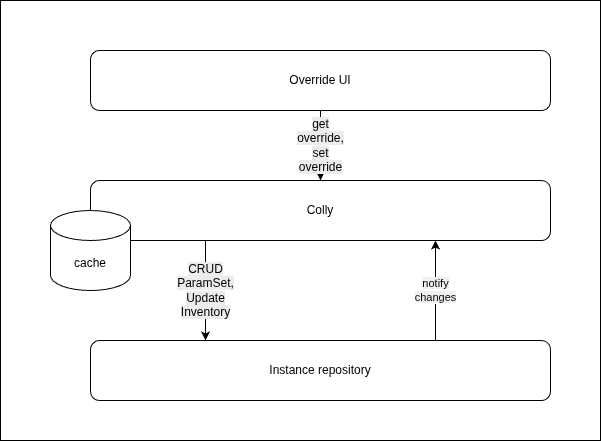
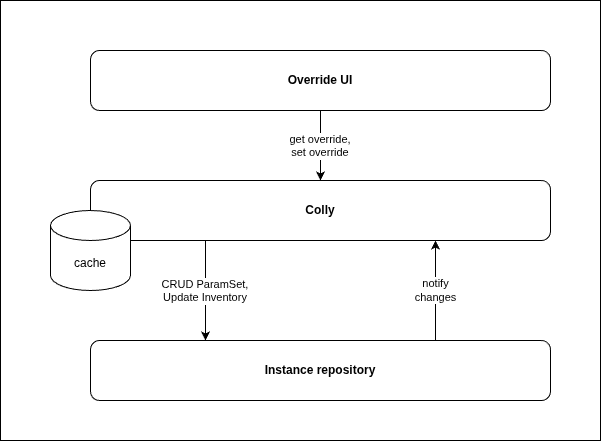
docs: update override ui

diff --git a/docs/analysis/override-ui.md b/docs/analysis/override-ui.md
@@ -4,12 +4,16 @@
   - [Problem Statement](#problem-statement)
   - [Scenarios](#scenarios)
   - [Proposed Approach](#proposed-approach)
-    - [Prototype](#prototype)
-    - [Варианты реализации UI оверрайда в энвгене](#варианты-реализации-ui-оверрайда-в-энвгене)
-      - [Option 1. Env Specific Parameters Override](#option-1-env-specific-parameters-override)
-      - [Option 2. Env Instance Override](#option-2-env-instance-override)
-      - [Option 3. Effective Set Override](#option-3-effective-set-override)
-    - [Реализация в Колли](#реализация-в-колли)
+    - [Option 1. Env Specific Parameters Override](#option-1-env-specific-parameters-override)
+      - [\[Option 1\] EnvGene](#option-1-envgene)
+      - [\[Option 1\] Colly](#option-1-colly)
+    - [Option 2. Env Instance Override](#option-2-env-instance-override)
+      - [\[Option 2\] EnvGene](#option-2-envgene)
+      - [\[Option 2\] Colly](#option-2-colly)
+    - [Option 3. Effective Set Override](#option-3-effective-set-override)
+      - [\[Option 3\] EnvGene](#option-3-envgene)
+      - [\[Option 3\] Colly](#option-3-colly)
+    - [Сравнение Опций](#сравнение-опций)
   - [Use Cases](#use-cases)
   - [Open Questions](#open-questions)
 
@@ -29,8 +33,6 @@
 
 ## Scenarios
 
-Сценарии ниже подразумевают что в качестве CM используется EnvGene в noCMDB режиме
-
 1. **Dev/QA Test**
 
    Разработчик/QA или группа разработчиков/QA получили развернутое в облаке окружение для тестирования изменений.
@@ -46,6 +48,201 @@
    Процесс включает многократный редеплой отдельных приложений, что требует изменения параметров этих приложений в CM.
 
    Полученные в результате отладки и тестирования изменения параметров требуют сохранения в шаблоне окружения для воспроизводимости в будущих окружениях и использования в других инстансах.
+
+## Proposed Approach
+
+Решение предоставляет UI для быстрого изменения параметров окружения без необходимости работы с Git напрямую. UI оверрайды сохраняются в инстансном репозитории и применяются с наивысшим приоритетом в цепочке параметров. Предложено три варианта реализации, различающиеся местом хранения оверрайдов и временем их применения. Все варианты обеспечивают возможность последующего переноса изменений в шаблон окружения для воспроизводимости.
+
+![override-ui-arch.png](/docs/images/override-ui-arch.png)
+
+![override-ui-prototype.html](/docs/analysis/override-ui-prototype.html)
+
+![override-ui-options.png](/docs/images/override-ui-options.png)
+
+### Option 1. Env Specific Parameters Override
+
+Оверрайды хранятся исключительно в отдельных ParamSet файлах в инстансном репозитории. ParamSet файлы ассоциируются с окружением через Inventory и применяются последними в цепочке параметров, обеспечивая наивысший приоритет. Применение изменений требует выполнения `env_build` и `generate_effective_set`.
+
+#### [Option 1] EnvGene
+
+1. При создание UI оверрайда значения сохраняются в инстансном репозитории в виде Env Specific ParamSets
+
+   1. парамсеты создается в `/environments/<cluster>/<env>/Inventory/parameters/` отдельно для каждого нс/контекста c именами:
+      1. для `deployment` контекста: `<deploy-postfix>-deploy-ui-override.yaml`
+      2. для `runtime` контекста: `<deploy-postfix>-runtime-ui-override.yaml`
+      3. для `pipeline` контекста: `pipeline-ui-override.yaml`
+
+   2. парамсет ассоциируется в инвентори энва:
+      1. парамсет добавляется в конец списка парамсетов в текущие точки ассоциации
+
+            ```yaml
+            envTemplate:
+               envSpecificParamsets:
+                  <deploy-postfix>:
+                     - ...
+                     - <deploy-postfix>-deploy-ui-override
+               envSpecificTechnicalParamsets:
+                  <deploy-postfix>:
+                     - ...
+                     - <deploy-postfix>-runtime-ui-override
+               envSpecificE2EParamsets:
+                  # For all NSs of the Env
+                  <deploy-postfix>:
+                     - ...
+                     - pipeline-ui-override
+            ```
+
+      2. Во время `env_build` происходит валидация на то что ui-override парамсеты в конце списка - если нет, падает
+      3. Во время `env_inventory_generation` (или в первой джобе?) происходит валидация, что создаются или изменяются ui-override парамсеты - если да, падает
+
+   3. парамсеты имеют следующую структуру:
+      1. для `deployment` и `runtime` контекста:
+
+            ```yaml
+            name: string
+            parameters: {}
+            applications:
+               - appName: string
+                 parameters: map
+            ```
+
+      2. для `pipeline` контекста: `pipeline-ui-override.yaml`
+
+            ```yaml
+            name: string
+            parameters: map
+            applications: []
+            ```
+
+   4. В BGD кейсе вместо `<deploy-postfix>` используется `<deploy-postfix>-peer|origin`. Для процессинга этой конструкции используется BG Domain объект.
+
+2. Для отображения сохраненного UI оверрайда используется парамсет
+
+3. UI оверрайд может содержать макросы ссылки на креды созданные в гите
+
+4. Возможность создавать креды не предоставляется. Работа с заинкрипченным репозиторием не поддерживается
+   1. **Assumption**: В тех репозиториях/сайтах где используется Override UI энкрипт репозитория не требуется
+
+#### [Option 1] Colly
+
+CRUD **только** над ui-override парамсетами (нужна валидация)
+Update **только** точек ассоциации, только ui-override парамсетов в инвентори (нужна валидация)
+
+Изменения нескольких файлов должны быть транзакционными
+
+```yaml
+## ParamSet
+# Mandatory
+# Уникальный идентификатор парамсета в рамках колли инстанса
+id: uuid
+# Для обработки параллельных изменениях через UI разными пользователями и одновременном изменении через UI и Git
+# Колли изменяет при создание изменение парамсета
+updatedAt: timestamp
+# Имя парамсета. Уникально в пределах инстансного репозитория + location
+name: string
+# Mandatory
+location:
+   # Область действия парамсета 
+   wideness: enum[ site, cluster, environment ]
+   # Optional
+   # требуется только для wideness: cluster, environment
+   clusterName: string
+   # Optional
+   # требуется только для wideness: environment
+   environmentName: string
+# Mandatory
+# Оверрайд параметры уровня объекта с которым ассоциирован - клауд или неймспейс
+parameters: map
+# Mandatory
+applications:
+  - # Mandatory
+    # Имя приложения
+    appName: string
+    # Mandatory
+    # Оверрайд параметры уровня приложения 
+    parameters: map 
+```
+
+```yaml
+## Environment
+...
+paramSets:
+  - name: string
+    associatedObjectType: enum[ cloud, namespace ]
+    associatedObjectName: string
+    context: enum[ deployment, runtime, pipeline ]
+```
+
+### Option 2. Env Instance Override
+
+Расширяет Option 1 дополнительным мержем оверрайдов напрямую в Application и Namespace объекты инстансного репозитория. Оверрайды хранятся в двух местах: ParamSet файлах (как в Option 1) и в Application/Namespace объектах. Применение изменений требует только `generate_effective_set`, что ускоряет процесс по сравнению с Option 1.
+
+#### [Option 2] EnvGene
+
+1. Все то же самое что и в **Option 1. Env Specific Parameters Override**
+2. При создание UI оверрайда значения мержатся в режиме Shallow Merge в Application энвайрмента:
+   1. для `deploy` в аттрибут `deployParameters` Application объекта расположенного в `environments/<cluster>/<env>/Namespaces/<ns>/Applications/<app>.yml`
+   2. для `runtime` в аттрибут `technicalConfigurationParameters` Application объекта расположенного в `environments/<cluster>/<env>/Namespaces/<ns>/Applications/<app>.yml`
+   3. для `pipeline` в аттрибут `e2eParameters` во все Namespace объекты энвайрмента, расположенные в `environments/<cluster>/<env>/namespace.yml`
+
+#### [Option 2] Colly
+
+TBD
+
+### Option 3. Effective Set Override
+
+**Архитектурное описание:** Расширяет Option 2 дополнительным мержем оверрайдов напрямую в файлы Effective Set. Оверрайды хранятся в трех местах: ParamSet файлах, Application/Namespace объектах и файлах Effective Set. Изменения могут быть применены мгновенно
+
+#### [Option 3] EnvGene
+
+1. Все то же самое что и в **Option 2. Env Instance Override**
+2. При создание UI оверрайда значения мержатся в режиме Shallow Merge в файлы ES:
+   1. для `deploy` в `effective-set/deployment/<ns>/<app>/values/deployment-parameters.yaml`
+   2. для `runtime` в `effective-set/runtime/<ns>/<app>/parameters.yaml`
+   3. для `pipeline` в `effective-set/pipeline/parameters.yaml`
+
+#### [Option 3] Colly
+
+TBD
+
+### Сравнение Опций
+
+| Критерий | Option 1. Env Specific Parameters Override | Option 2. Env Instance Override | Option 3. Effective Set Override |
+| :-------- | :------------------------------------------ | :------------------------------- | :-------------------------------- |
+| **Время применения изменений** | Дольше - требуется `env_build` + `generate_effective_set` | Среднее - требуется `generate_effective_set` | Мгновенно - изменения применяются сразу |
+| **Сложность реализации** | Ниже | Выше | Выше |
+| **Риск рассинхронизации** | Низкий - оверрайды в одном месте (ParamSet) | Средний - оверрайды в двух местах (ParamSet + Application/Namespace) | Высокий - оверрайды в трех местах (ParamSet + Application/Namespace + ES) |
+
+## Use Cases
+
+1. Create override.
+   1. Add a new parameter to:
+      1. An application deployment context
+      2. An application runtime context
+      3. An Environment pipeline context
+   2. Override a parameter value for:
+      1. An application deployment context
+      2. An application runtime context
+      3. An Environment pipeline context
+   3. ~~Remove a parameter~~
+2. View override parameters for:
+   1. An application deployment context
+   2. An application runtime context
+   3. An Environment pipeline context
+3. Update override
+   1. Add a new parameter to:
+      1. An application deployment context
+      2. An application runtime context
+      3. An Environment pipeline context
+   2. Override a parameter value for:
+      1. An application deployment context
+      2. An application runtime context
+      3. An Environment pipeline context
+   3. ~~Remove a parameter~~
+4. Delete override for
+   1. An application deployment context
+   2. An application runtime context
+   3. An Environment pipeline context
 
 <!-- ## Use Cases
 
@@ -152,119 +349,6 @@
 **Notes:**
 
 1. Service object doesn't exist, but for dev cases it's needed to be able to set parameters, for example, to replace docker image tag without rebuilding DD. Similar to override case passed as pipeline attribute -->
-
-## Proposed Approach
-
-![override-ui-arch.png](/docs/images/override-ui-arch.png)
-
-### Prototype
-
-![override-ui-prototype.html](/docs/analysis/override-ui-prototype.html)
-
-### Варианты реализации UI оверрайда в энвгене
-
-![override-ui-options.png](/docs/images/override-ui-options.png)
-
-#### Option 1. Env Specific Parameters Override
-
-1. При создание UI оверрайда значения сохраняются в инстансном репозитории в виде Env Specific ParamSets
-
-   1. парамсеты создается в `/environments/<cluster>/<env>/Inventory/parameters/` отдельно для каждого нс/контекста c именами:
-      1. для `deployment` контекста: `<deploy-postfix>-deploy-ui-override.yaml`
-      2. для `runtime` контекста: `<deploy-postfix>-runtime-ui-override.yaml`
-      3. для `pipeline` контекста: `pipeline-ui-override.yaml`
-
-   2. парамсет ассоциируется в инвентори энва:
-      1. парамсет добавляется в конец списка парамсетов в текущие точки ассоциации
-
-            ```yaml
-            envTemplate:
-               envSpecificParamsets:
-                  <deploy-postfix>:
-                     - ...
-                     - <deploy-postfix>-deploy-ui-override
-               envSpecificTechnicalParamsets:
-                  <deploy-postfix>:
-                     - ...
-                     - <deploy-postfix>-runtime-ui-override
-               envSpecificE2EParamsets:
-                  # For all NSs of the Env
-                  <deploy-postfix>:
-                     - ...
-                     - pipeline-ui-override
-            ```
-
-      2. Во время `env_build` происходит валидация на то что ui-override парамсеты в конце списка - если нет, падает
-
-   3. парамсеты имеют следующую структуру:
-      1. для `deployment` и `runtime` контекста:
-
-            ```yaml
-            name: string
-            parameters: {}
-            applications:
-               - appName: string
-                 parameters: map
-            ```
-
-      2. для `pipeline` контекста: `pipeline-ui-override.yaml`
-
-            ```yaml
-            name: string
-            parameters: map
-            applications: []
-            ```
-
-   4. В BGD кейсе вместо `<deploy-postfix>` используется `<deploy-postfix>-peer|origin`. Для процессинга этой конструкции используется BG Domain объект.
-
-2. Для отображения сохраненного UI оверрайда используется парамсет
-
-3. UI оверрайд может содержать макросы ссылки на креды созданные в гите
-
-4. Возможность создавать креды не предоставляется
-   1. **Assumption**: В тех репозиториях/сайтах где используется Override UI энкрипт репозитория не требуется
-
-#### Option 2. Env Instance Override
-
-1. Все то же самое что и в **Option 1. Env Specific Parameters Override**
-2. При создание UI оверрайда значения мержатся в режиме Shallow Merge в Application энвайрмента:
-   1. для `deploy` в аттрибут `deployParameters` Application объекта расположенного в `environments/<cluster>/<env>/Namespaces/<ns>/Applications/<app>.yml`
-   2. для `runtime` в аттрибут `technicalConfigurationParameters` Application объекта расположенного в `environments/<cluster>/<env>/Namespaces/<ns>/Applications/<app>.yml`
-   3. для `pipeline` в аттрибут `e2eParameters` во все Namespace объекты энвайрмента, расположенные в `environments/<cluster>/<env>/namespace.yml`
-
-#### Option 3. Effective Set Override
-
-1. Все то же самое что и в **Option 2. Env Instance Override**
-2. При создание UI оверрайда значения мержатся в режиме Shallow Merge в файлы ES:
-   1. для `deploy` в `effective-set/deployment/<ns>/<app>/values/deployment-parameters.yaml`
-   2. для `runtime` в `effective-set/runtime/<ns>/<app>/parameters.yaml`
-   3. для `pipeline` в `effective-set/pipeline/parameters.yaml`
-
-### Реализация в Колли
-
-Колли умеет для Option 1 в Инстансном репозитории:
-
-1. CRUD парамсеты
-2. Update инвентори - ассоциировать парамсеты
-
-## Use Cases
-
-1. Create override.
-   1. Add a new parameter to:
-      1. An application deployment context
-      2. An application runtime context
-      3. An Environment pipeline context
-   2. Override a parameter value for:
-      1. An application deployment context
-      2. An application runtime context
-      3. An Environment pipeline context
-   3. ~~Remove a parameter~~
-2. View override parameters for:
-   1. An application deployment context
-   2. An application runtime context
-   3. An Environment pipeline context
-3. Update override
-4. Delete override
 
 ## Open Questions
 